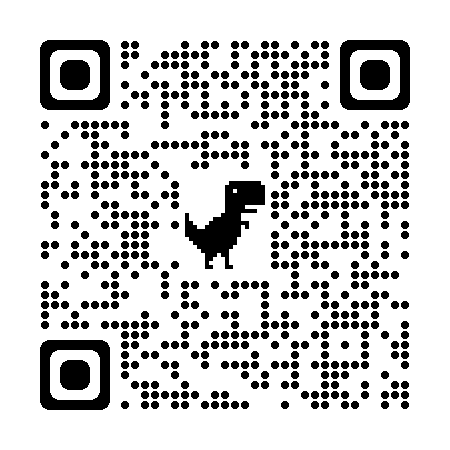
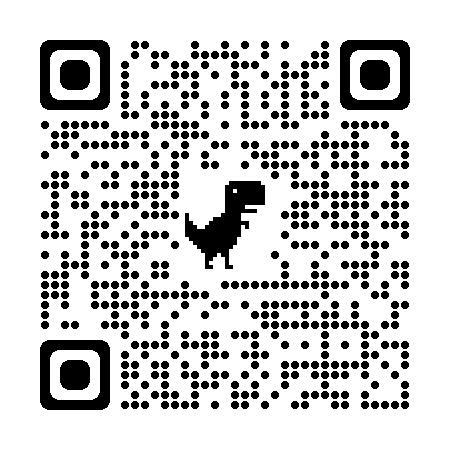
Atualização do site - Wireframe

diff --git a/style.css b/style.css
@@ -176,6 +176,37 @@ main h2 {
     border: 0;
 }
 
+/* Wireframe */
+#wireframe {
+    padding: 50px 0px;
+    background: url(img/background.png);
+    background-size: cover;
+    background-position: center;
+}
+
+#textowire {
+    color: #fff;
+    padding: 0px 10px;
+}
+
+#textowire h2 {
+    margin-bottom: 10px;    
+}
+
+#textowire p {
+    margin-bottom: 40px;
+}
+
+#textowire span {
+    display: none;
+}
+
+#qrcode {
+    display: none;
+}
+
+
+
 
 /* Smartphone Landscape >>>>>>>>>>>>>>>>>>>>>>>>>>>>>>>>>>>>>> */
 @media (min-width: 576px) {
@@ -297,5 +328,25 @@ main h2 {
         flex-direction: row;
         align-items: center;
     }
+
+    /* Wireframe */
+    #wireframe {
+        background-attachment: fixed;
+    }
+
+    #wireframe span {
+        display: inline;
+        color: #c00000;
+    }
+
+    #qrcode {
+        display: inline;
+    }
+
+    #qrcode img {
+        width: 225px;
+        height: 225px;
+    }
+
 
 }

diff --git a/index.html b/index.html
@@ -83,14 +83,14 @@
 
     <!-- Wireframe -->
     <section id="wireframe">
-        <div class="Container">           
+        <div class="Container Flex2">           
             <div id="textowire">
                 <h2>Wireframe</h2>
                 <p>Wireframe é uma representação visual da estrutura básica de uma página. Ele deve ser feito da maneira mais simples possível, mostrando apenas o essencial, como uma espécie de rascunho, sem cores ou imagens. Clique no botão <span>ou escaneie o QR Code </span> para obter o wireframe desta página.</p>
-                <a href="wireframe.pdf" target="_blank">PDF</a>
+                <a href="wireframe.pdf" target="_blank" class="Botao">PDF</a>
             </div>
             <div id="qrcode">
-
+                <img src="img/qrcode.png" alt="qrcode">
             </div>
         </div>
     </section>
